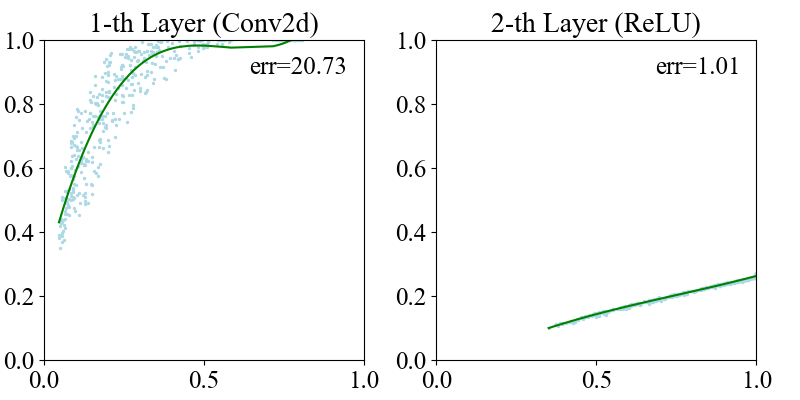
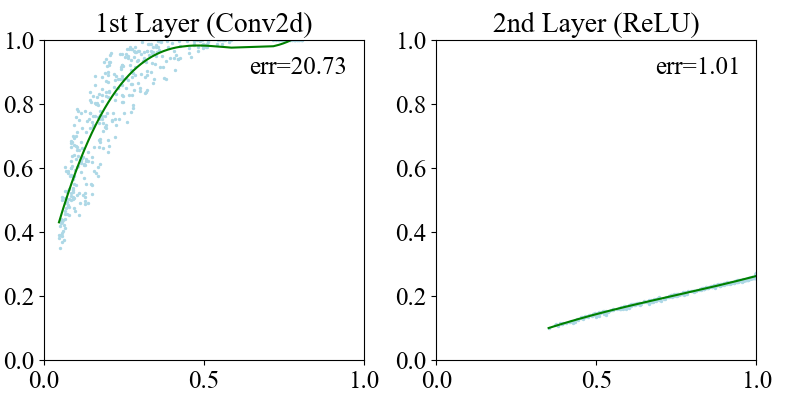
update for xlabel presentation

Changed region(s): [[0.0938, 0.03, 0.4062, 0.09], [0.625, 0.03, 0.875, 0.09]]

diff --git a/predictor_nonzero_relu/relu_layer_fit_nonezero_rate.py b/predictor_nonzero_relu/relu_layer_fit_nonezero_rate.py
@@ -94,6 +94,14 @@ def draw_logistic(i_fnz: List[float], o_fnz: List[float], ax: Axes):
 
 lg = {'size': 20}
 
+def ordinal(n):
+    """返回带英文序数后缀的数字字符串"""
+    if 10 <= n % 100 <= 20:
+        suffix = 'th'
+    else:
+        suffix = {1: 'st', 2: 'nd', 3: 'rd'}.get(n % 10, 'th')
+    return f"{n}{suffix}"
+
 def target_layers_in_out_relu(cnn_name: str, target_type: Type[torch.nn.Module], uni_scale: bool, show_seq: bool,
                   r_layers: List[Node], lfcnz: List[List[List[float]]], fit: str = None):
     """对于特定类型的所有层，显示输入和输出的关联。一个窗口展示3*5=15个层的数据
@@ -118,7 +126,7 @@ def target_layers_in_out_relu(cnn_name: str, target_type: Type[torch.nn.Module],
         if not isinstance(layer, target_type):
             continue
         layer_type = type(layer).__name__  # 获取层的类型名称
-        xlabel = f"{l}-th Layer ({layer_type})"  # 添加层类型到xlabel
+        xlabel = f"{ordinal(l)} Layer ({layer_type})"  # 添加层类型到xlabel
         ax = plt.subplot(SUB_NROW, SUB_NCOL, cnt)
         ax.set_title(xlabel, lg)
         if uni_scale:
@@ -174,7 +182,7 @@ def target_layers_in_out_all(cnn_name: str, target_type: Type[torch.nn.Module], 
     for l in range(1, len(r_layers)):
         layer = r_layers[l].module
         layer_type = type(layer).__name__  # 获取层的类型名称
-        xlabel = f"{l}-th Layer ({layer_type})"  # 添加层类型到xlabel
+        xlabel = f"{ordinal(l)} Layer ({layer_type})"  # 添加层类型到xlabel
         ax = plt.subplot(SUB_NROW, SUB_NCOL, cnt)
         ax.set_title(xlabel, lg)
         if uni_scale:
@@ -238,8 +246,8 @@ if __name__ == '__main__':
         fig = plt.figure(figsize=(8 ,4)) # figsize=(8 ,4)
         plt.subplots_adjust(wspace=0.2, left=0.05, right=0.95, bottom=0.1, top=0.9)  # 调整子图间距&去除空白区域
         #fig.suptitle(g_fit)
-        target_layers_in_out_relu(CNN_NAME, target_types[TARGET_TYPE], UNI_SCALE, SEQ_FRAME,
-                             g_r_layers, g_lfcnz, g_fit)
-        # target_layers_in_out_all(CNN_NAME, target_types[TARGET_TYPE], UNI_SCALE, SEQ_FRAME,
+        # target_layers_in_out_relu(CNN_NAME, target_types[TARGET_TYPE], UNI_SCALE, SEQ_FRAME,
         #                      g_r_layers, g_lfcnz, g_fit)
+        target_layers_in_out_all(CNN_NAME, target_types[TARGET_TYPE], UNI_SCALE, SEQ_FRAME,
+                             g_r_layers, g_lfcnz, g_fit)
     plt.show()
